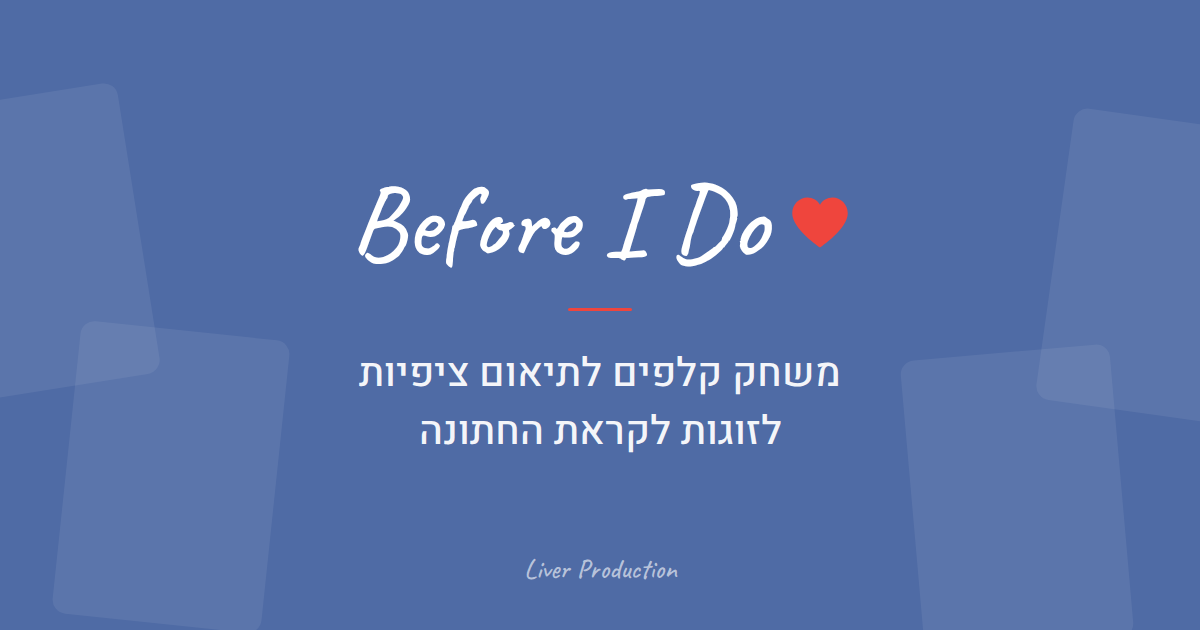
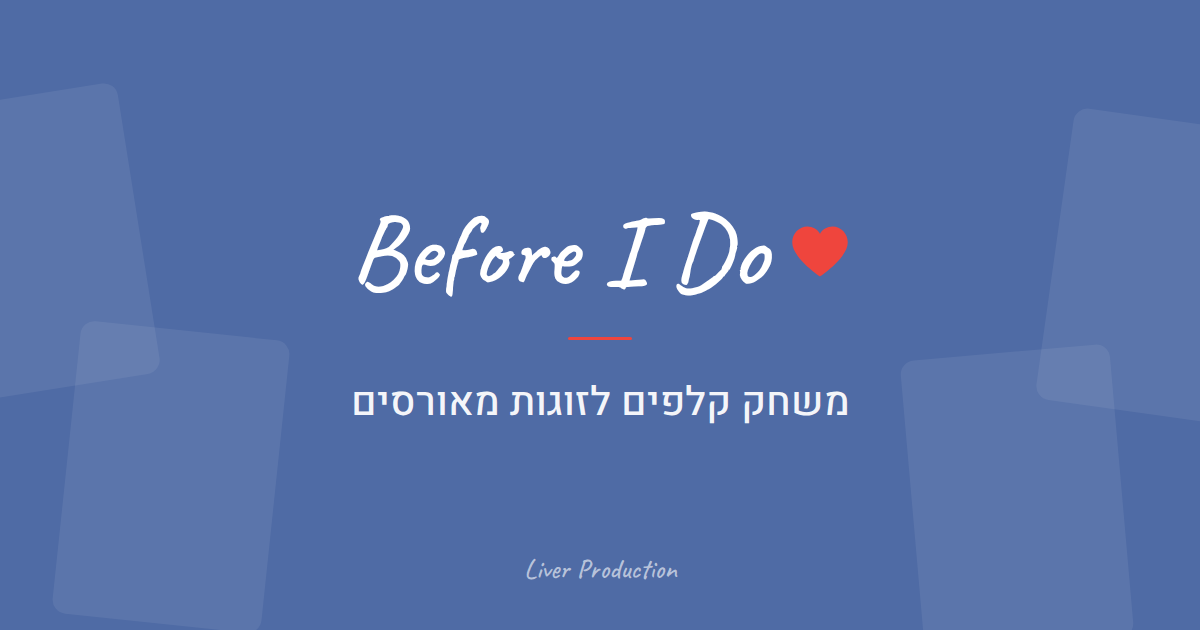
Shorten the share tagline to משחק קלפים לזוגות מאורסים
Barak's wording. It fits on one line in the card, so drop the manual break.
The line is held in one constant in the importer and reaches the title, the
meta description, og and twitter from there.

Claude-Session: https://claude.ai/code/session_01KfvWrnG78TBsgFmnxEqbpk

Changed region(s): [[0.2775, 0.2714, 0.7092, 0.4825], [0.2775, 0.573, 0.7092, 0.7238], [0.4625, 0.4825, 0.5242, 0.5429]]

diff --git a/index.html b/index.html
@@ -2,8 +2,8 @@
 <html lang="he" dir="rtl"><head>
 <meta charset="utf-8">
 <meta name="viewport" content="width=device-width, initial-scale=1">
-<title>Before I Do — משחק קלפים לתיאום ציפיות לזוגות לקראת החתונה</title>
-<meta name="description" content="משחק קלפים לתיאום ציפיות לזוגות לקראת החתונה. חמישים כרטיסיות עם השאלות שכל זוג מאורס צריך לשאול לפני החתונה — ערב אחד, שיחה אמיתית, בלי שיפוטיות. מאת Liver Production.">
+<title>Before I Do — משחק קלפים לזוגות מאורסים</title>
+<meta name="description" content="משחק קלפים לזוגות מאורסים. חמישים כרטיסיות עם השאלות שכל זוג מאורס צריך לשאול לפני החתונה — ערב אחד, שיחה אמיתית, בלי שיפוטיות. מאת Liver Production.">
 <meta name="theme-color" content="#4F6BA5">
 <link rel="canonical" href="https://www.beforeido.co.il/">
 <link rel="icon" href="assets/favicon.svg" type="image/svg+xml">
@@ -13,15 +13,15 @@
 <meta property="og:site_name" content="Before I Do">
 <meta property="og:url" content="https://www.beforeido.co.il/">
 <meta property="og:title" content="Before I Do">
-<meta property="og:description" content="משחק קלפים לתיאום ציפיות לזוגות לקראת החתונה">
+<meta property="og:description" content="משחק קלפים לזוגות מאורסים">
 <meta property="og:image" content="https://www.beforeido.co.il/assets/og-card.png">
 <meta property="og:image:type" content="image/png">
 <meta property="og:image:width" content="1200">
 <meta property="og:image:height" content="630">
-<meta property="og:image:alt" content="Before I Do — משחק קלפים לתיאום ציפיות לזוגות לקראת החתונה">
+<meta property="og:image:alt" content="Before I Do — משחק קלפים לזוגות מאורסים">
 <meta name="twitter:card" content="summary_large_image">
 <meta name="twitter:title" content="Before I Do">
-<meta name="twitter:description" content="משחק קלפים לתיאום ציפיות לזוגות לקראת החתונה">
+<meta name="twitter:description" content="משחק קלפים לזוגות מאורסים">
 <meta name="twitter:image" content="https://www.beforeido.co.il/assets/og-card.png">
 <script>
   window.__resources = {

diff --git a/tools/import-design.js b/tools/import-design.js
@@ -89,7 +89,7 @@ fix('lang="he" dir="rtl"', s => s.replace('<html><head>', '<html lang="he" dir="
 // React is fetched from unpkg by the runtime; window.__resources redirects it
 // to our own copies. It also stops the runtime re-fetching the page at boot.
 const SITE = 'https://www.beforeido.co.il';
-const TAGLINE = 'משחק קלפים לתיאום ציפיות לזוגות לקראת החתונה';
+const TAGLINE = 'משחק קלפים לזוגות מאורסים';
 
 // og:image must be absolute — a relative one is not resolved reliably by every
 // scraper, and WhatsApp is one of the strict ones.

diff --git a/tools/og-card.html b/tools/og-card.html
@@ -32,6 +32,6 @@
     <span class="wordmark">Before I Do</span>
   </div>
   <div class="rule"></div>
-  <p class="tagline">משחק קלפים לתיאום ציפיות<br>לזוגות לקראת החתונה</p>
+  <p class="tagline">משחק קלפים לזוגות מאורסים</p>
   <span class="by">Liver Production</span>
 </div></body></html>
